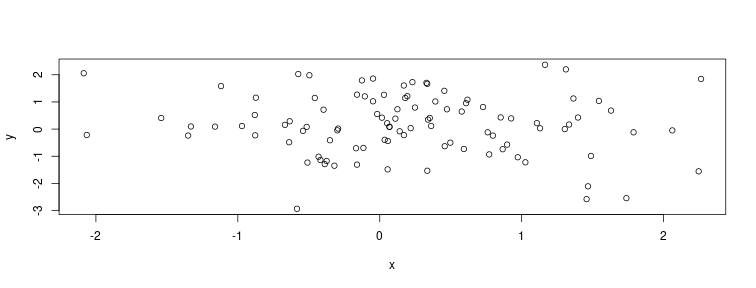
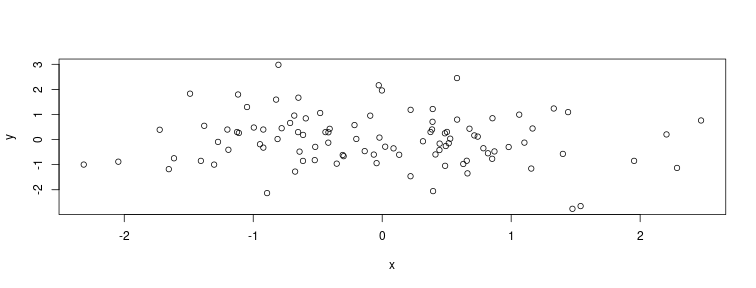
changed figure, tweaked

diff --git a/index.html b/index.html
@@ -279,7 +279,7 @@ m
 ```
 
 ```
-[1] 0.2121041
+[1] -0.03458216
 ```
 
 The code and results are right there!
@@ -358,7 +358,7 @@ class: inverse
     - software is [eating the world!](https://a16z.com/2011/08/20/why-software-is-eating-the-world/)
     - we **owe** it to ourselves to adapt to this system
     - even if it's uncomfortable for us, and we're not "computer people", this doesn't cut it!
-    - the **current** best practices will not be the same in 5, 10, 20 years -- you have to be prepared for lifelong learning
+    - the **current** best practices will not be the same in 5, 10, 20 years - you have to be prepared for lifelong learning
 
 ---
 
